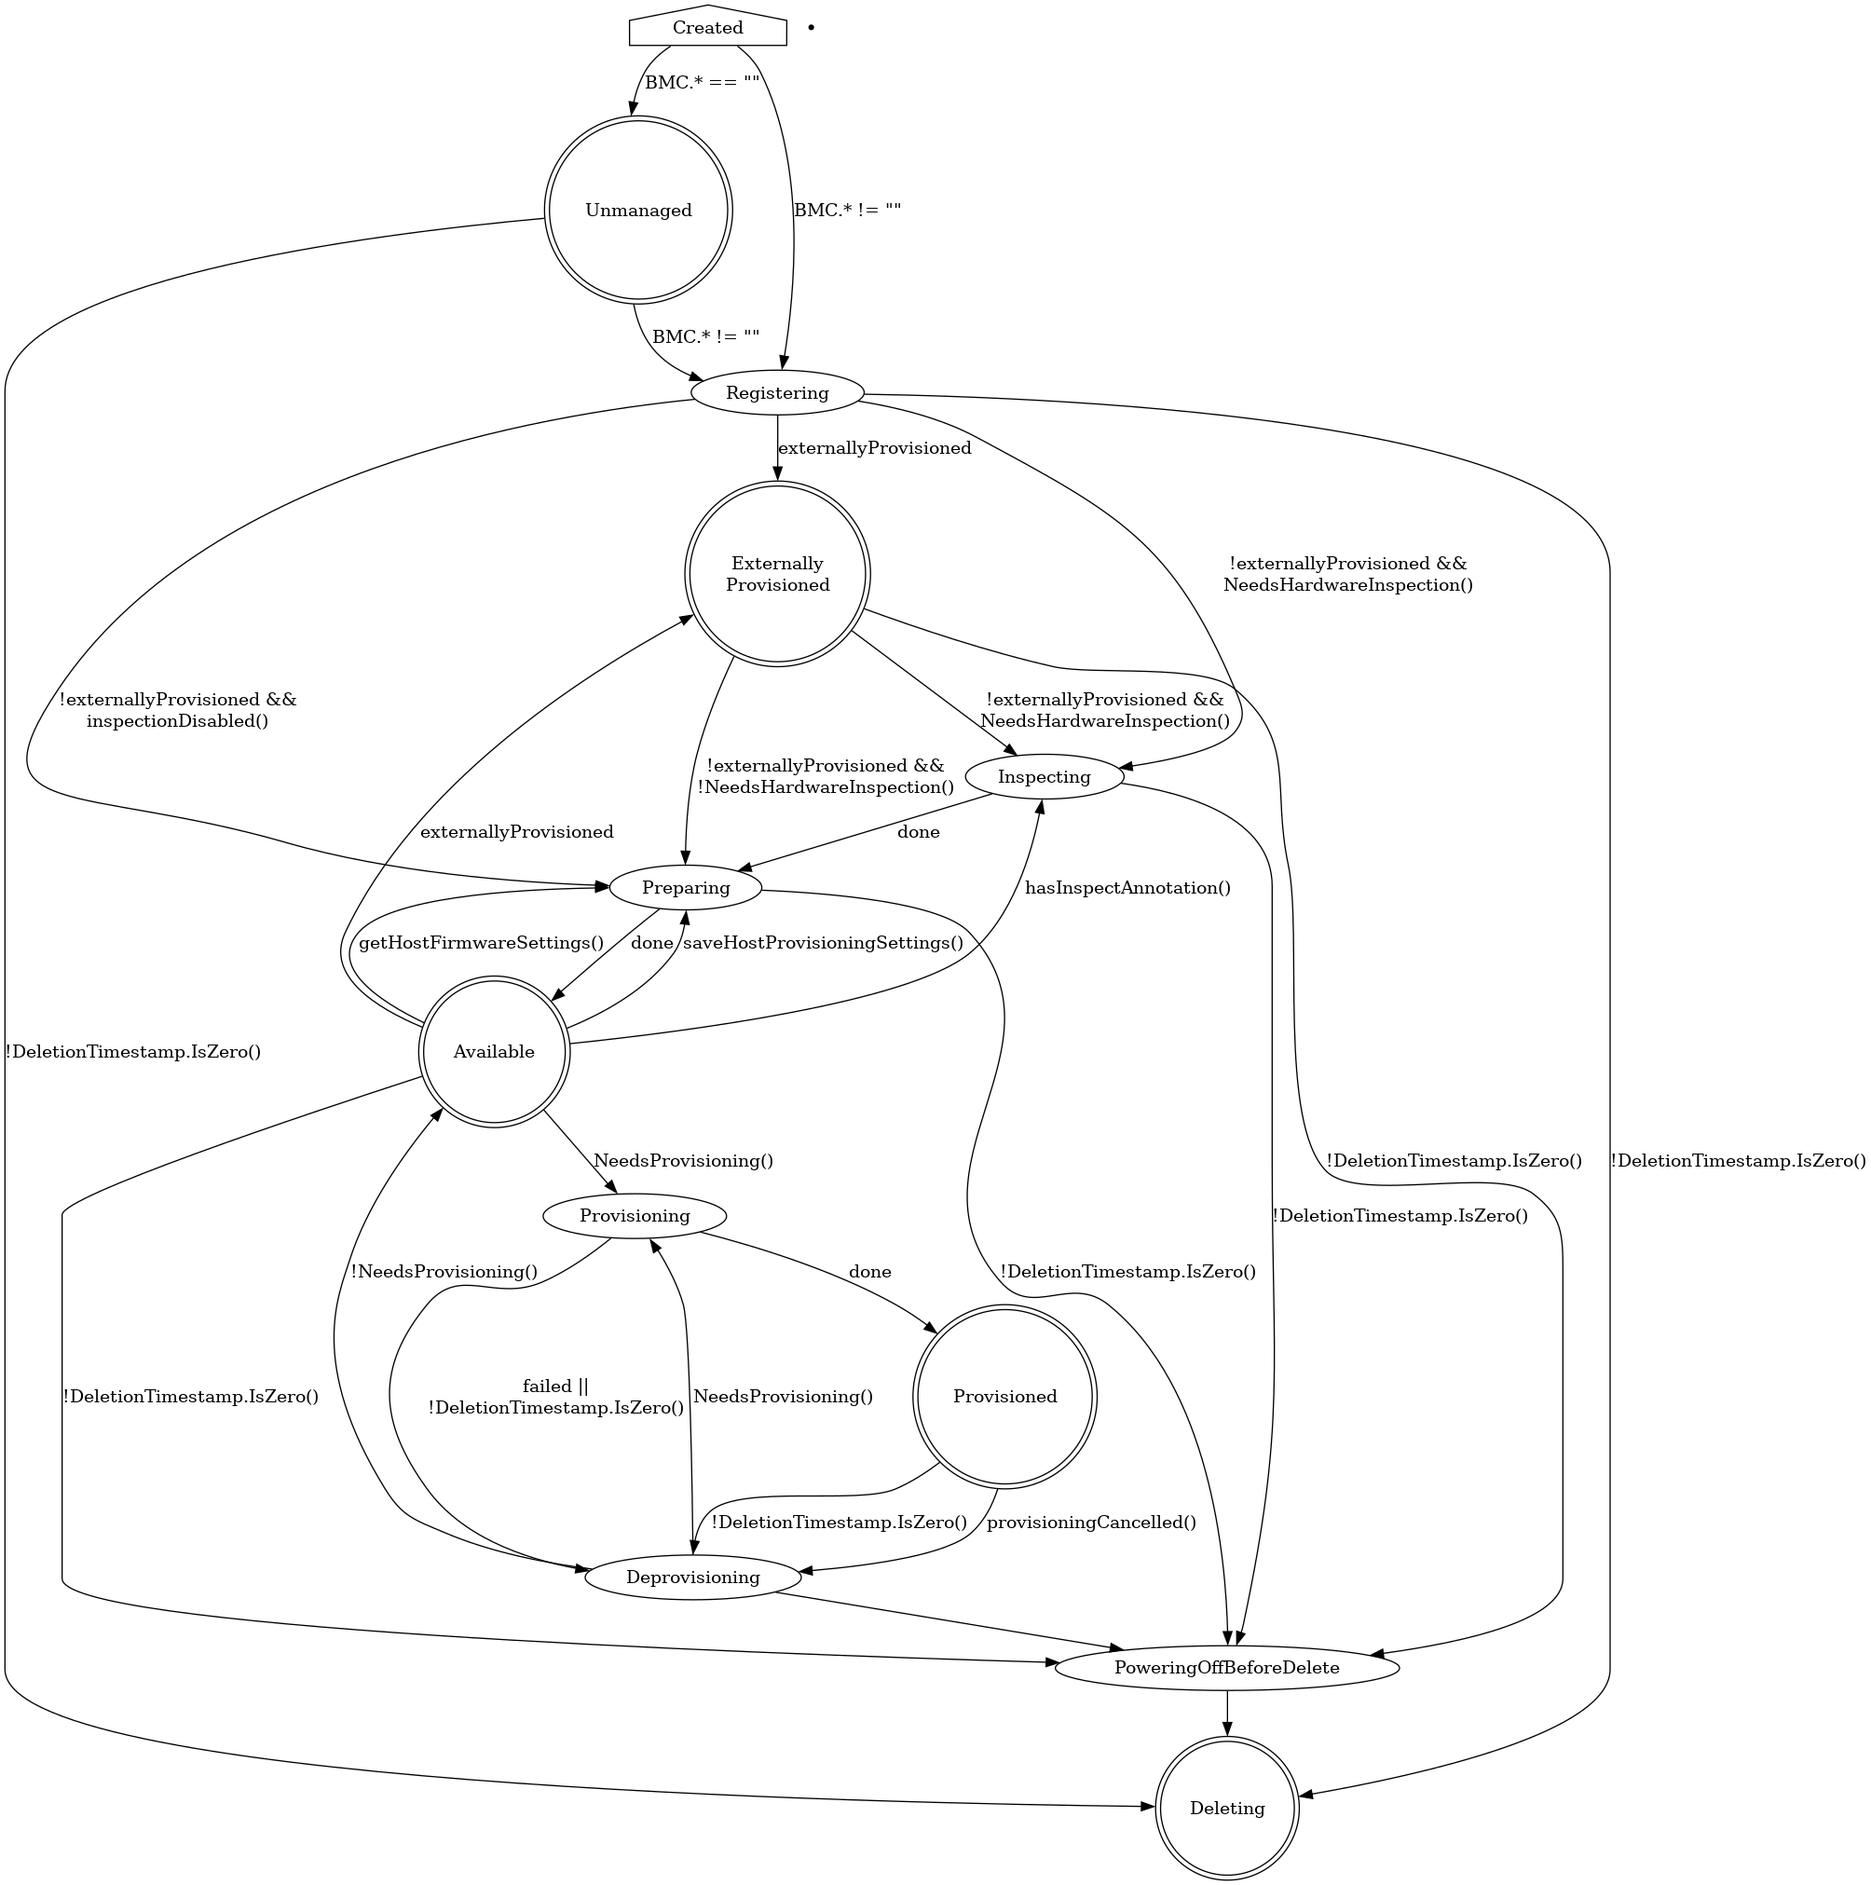
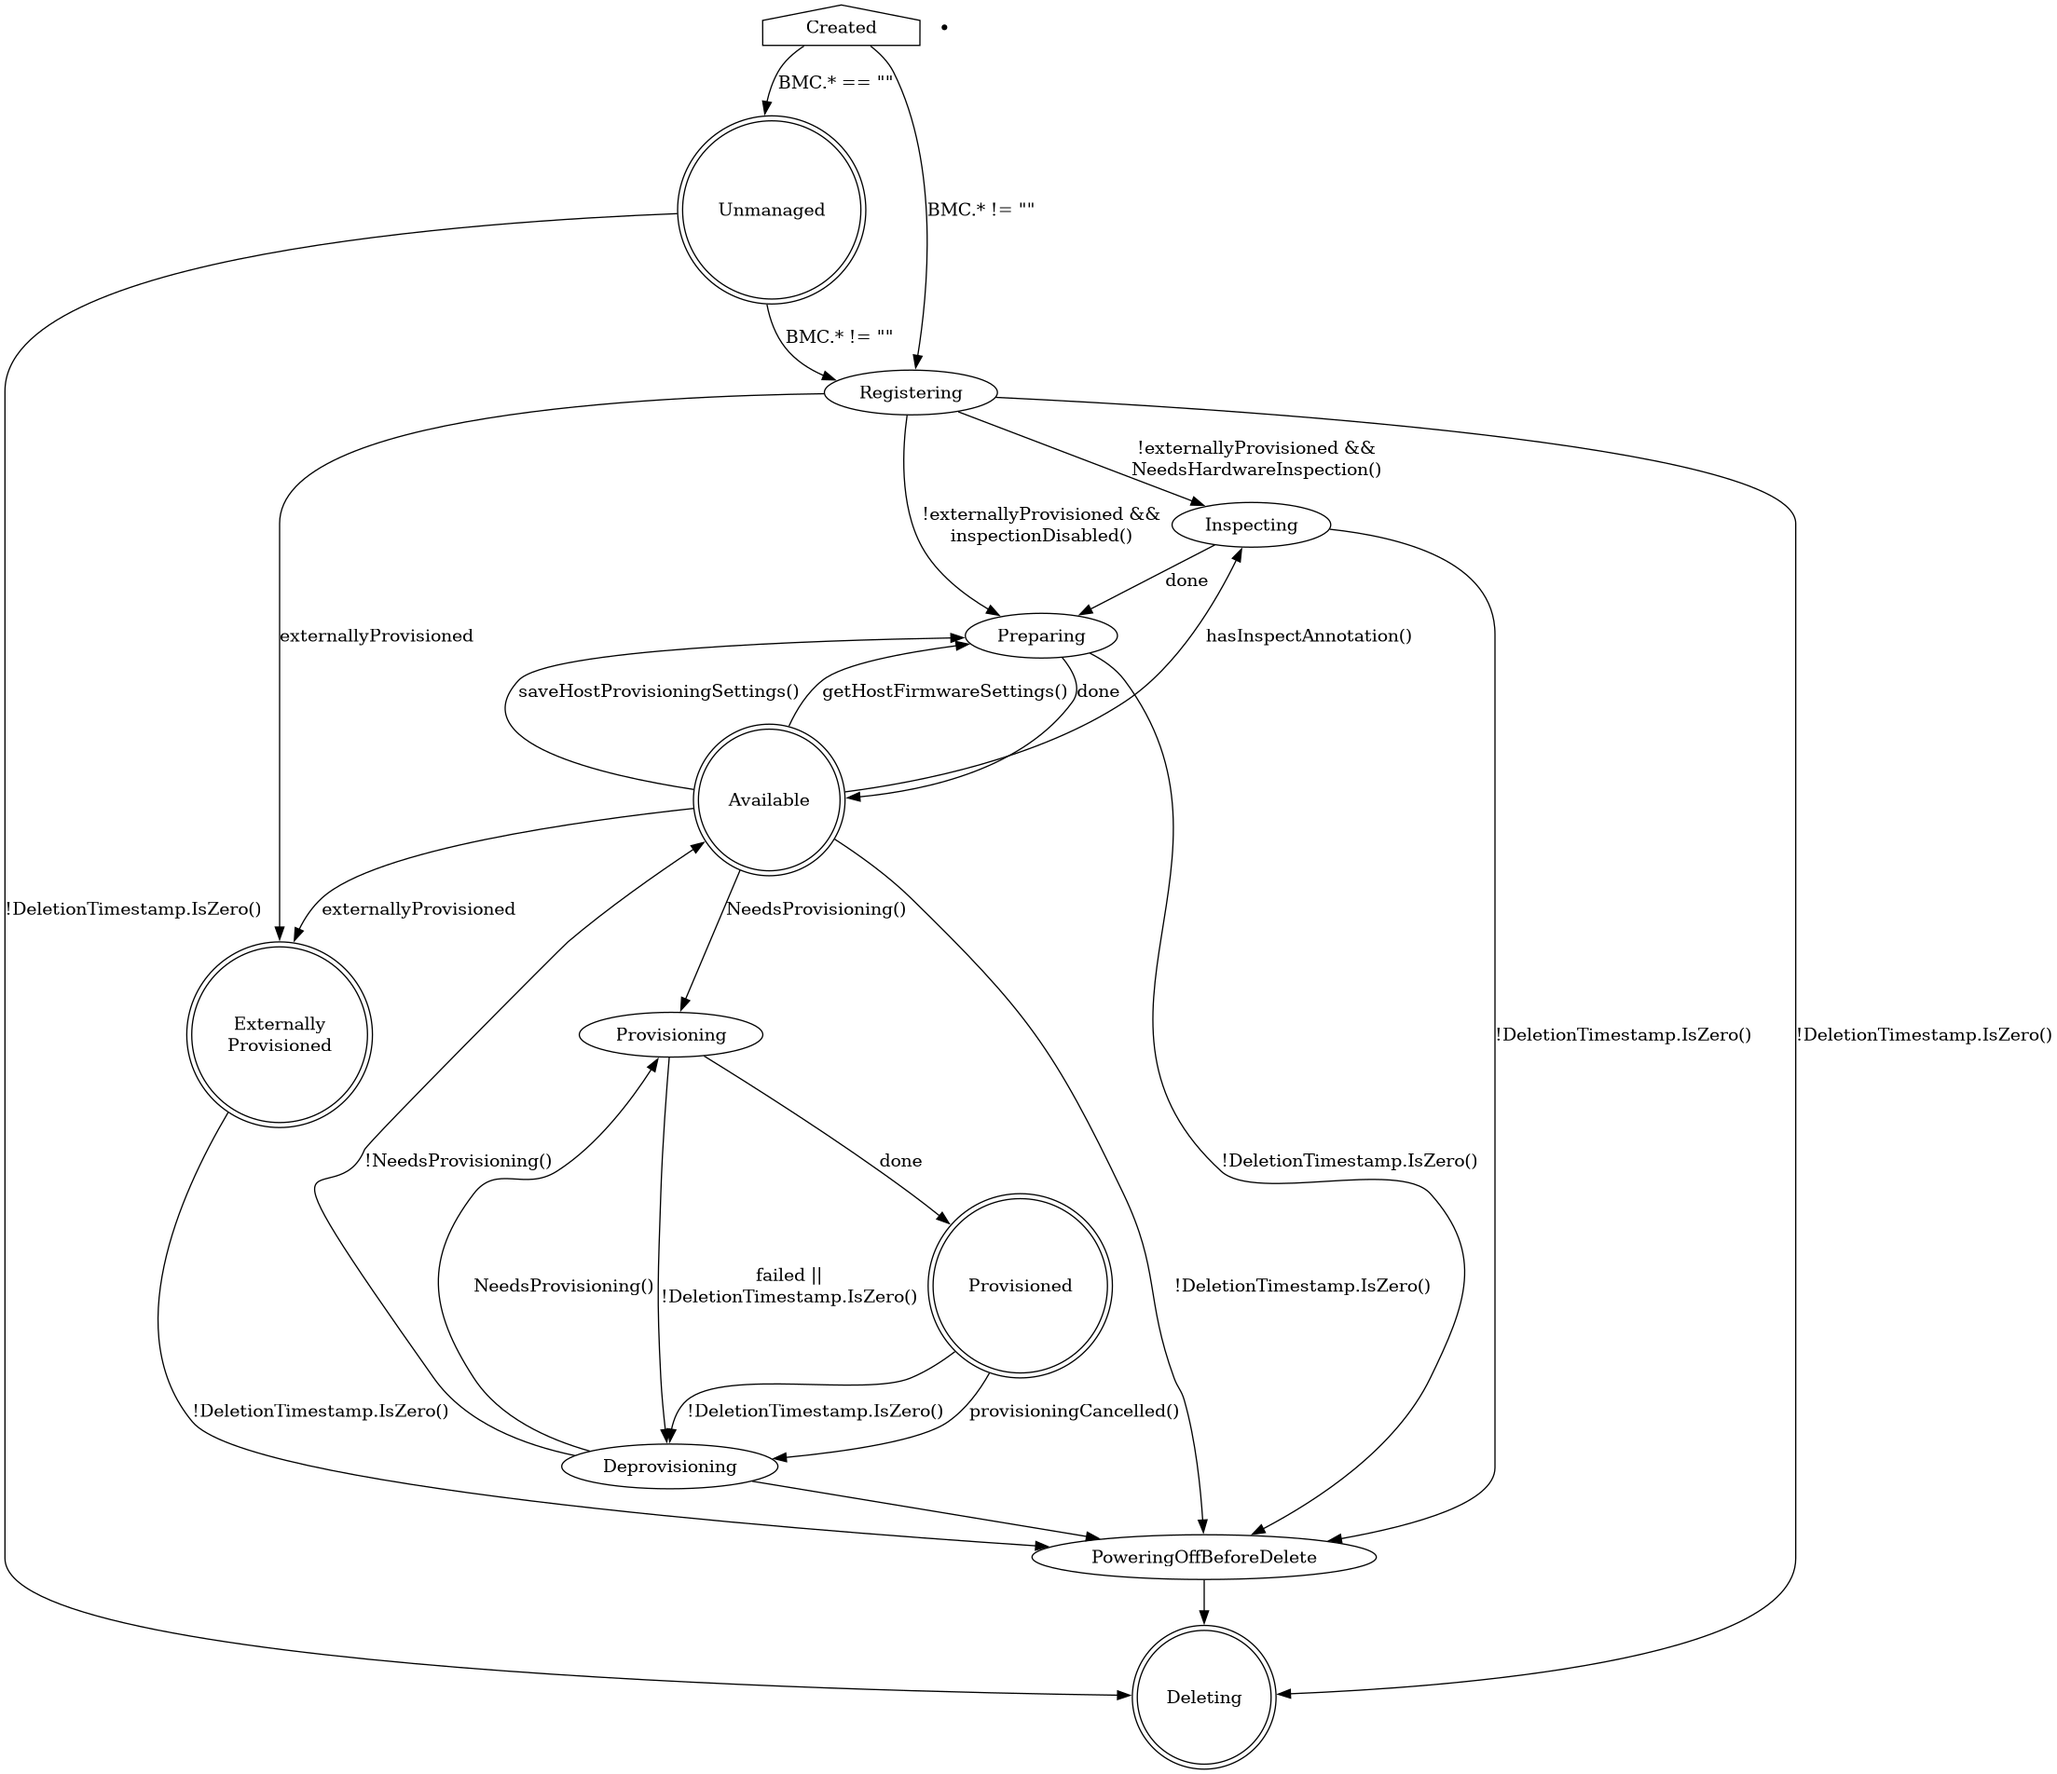
User guide: document the current state of ExternallyProvisioned
Add a new page on the externally provisioned feature.

Since moving out of the externally provisioned state does not actually
work [1], remove the corresponding transitions from the diagram.

[1] https://github.com/metal3-io/baremetal-operator/issues/2465

diff --git a/docs/user-guide/src/bmo/externally_provisioned.md b/docs/user-guide/src/bmo/externally_provisioned.md
@@ -1,0 +1,55 @@
+# Adopting Externally Provisioned Hosts
+
+BareMetal Operator allows enrolling hosts that have been previously provisioned
+by a 3rd party without making them go through inspection, cleaning and
+re-provisioning. Hosts are enrolled as usual, additionally setting the
+`externallyProvisioned` field to `true`:
+
+```yaml
+apiVersion: metal3.io/v1alpha1
+kind: BareMetalHost
+metadata:
+  name: host-0
+  namespace: my-cluster
+spec:
+  online: true
+  bootMACAddress: 80:c1:6e:7a:e8:10
+  bmc:
+    address: ipmi://192.168.1.13
+    credentialsName: host-0-bmc
+  externallyProvisioned: true
+```
+
+Such hosts move from the `registering` provisioning state directly into
+`externally provisioned` as shows in the [state machine](./state_machine.md):
+
+```yaml
+status:
+  # ...
+  operationalStatus: OK
+  provisioning:
+    ID: 8799e0d2-d2ca-4681-9385-e8bd69f6f441
+    bootMode: UEFI
+    image:
+      url: ""
+    state: externally provisioned
+```
+
+**Note:** while it's currently not possible to get a host out of the
+`externally provisioned` state, it's better to future-proof your hosts by
+adding a real `image` field so that your externally provisioned hosts look
+exactly like normal ones.
+
+## Available actions
+
+Currently, only a limited set of actions is possible on externally provisioned
+hosts:
+
+- Powering on and off using the `online` field.
+- Rebooting using the [reboot annotation](./reboot_annotation.md).
+- [Live updates (servicing)](./live_updates_servicing.md).
+- Deletion without cleaning (the host is only powered off).
+
+**Warning:** changing the `externallyProvisioned` field back to `false` is
+currently not supported (see the [tracker
+bug](https://github.com/metal3-io/baremetal-operator/issues/2465)).

diff --git a/docs/user-guide/src/bmo/state_machine.md b/docs/user-guide/src/bmo/state_machine.md
@@ -80,10 +80,10 @@ The corresponding operational status is `discovered`.
 
 ### Externally Provisioned
 
-An `externally provisioned` host has been deployed using another tool. Hosts
-reach this state when they are created with the `externallyProvisioned` field
-set to `true`. Hosts in this state are monitored, and only their power status
-is managed.
+An [externally provisioned](./externally_provisioned.md) host has been deployed
+using another tool. Hosts reach this state when they are created with the
+`externallyProvisioned` field set to `true`. Hosts in this state are monitored,
+and only their power status is managed.
 
 ### Registering
 

diff --git a/docs/user-guide/src/SUMMARY.md b/docs/user-guide/src/SUMMARY.md
@@ -24,6 +24,7 @@
       - [Reboot Annotation](bmo/reboot_annotation.md)
       - [Root Device Hints](bmo/root_device_hints.md)
    - [Advanced Features](bmo/features.md)
+      - [Adopting Externally Provisioned Hosts](bmo/externally_provisioned.md)
       - [Advanced Instance Customization](bmo/advanced_instance_customization.md)
       - [Detached annotation](bmo/detached_annotation.md)
       - [External Inspection](bmo/external_inspection.md)

diff --git a/docs/user-guide/src/bmo/features.md b/docs/user-guide/src/bmo/features.md
@@ -15,6 +15,7 @@
 
 ## Advanced features
 
+- [Adopting Externally Provisioned Hosts](./externally_provisioned.md)
 - [Advanced Instance Customization](./advanced_instance_customization.md)
 - [Detached Annotation](./detached_annotation.md)
 - [External Inspection](./external_inspection.md)
